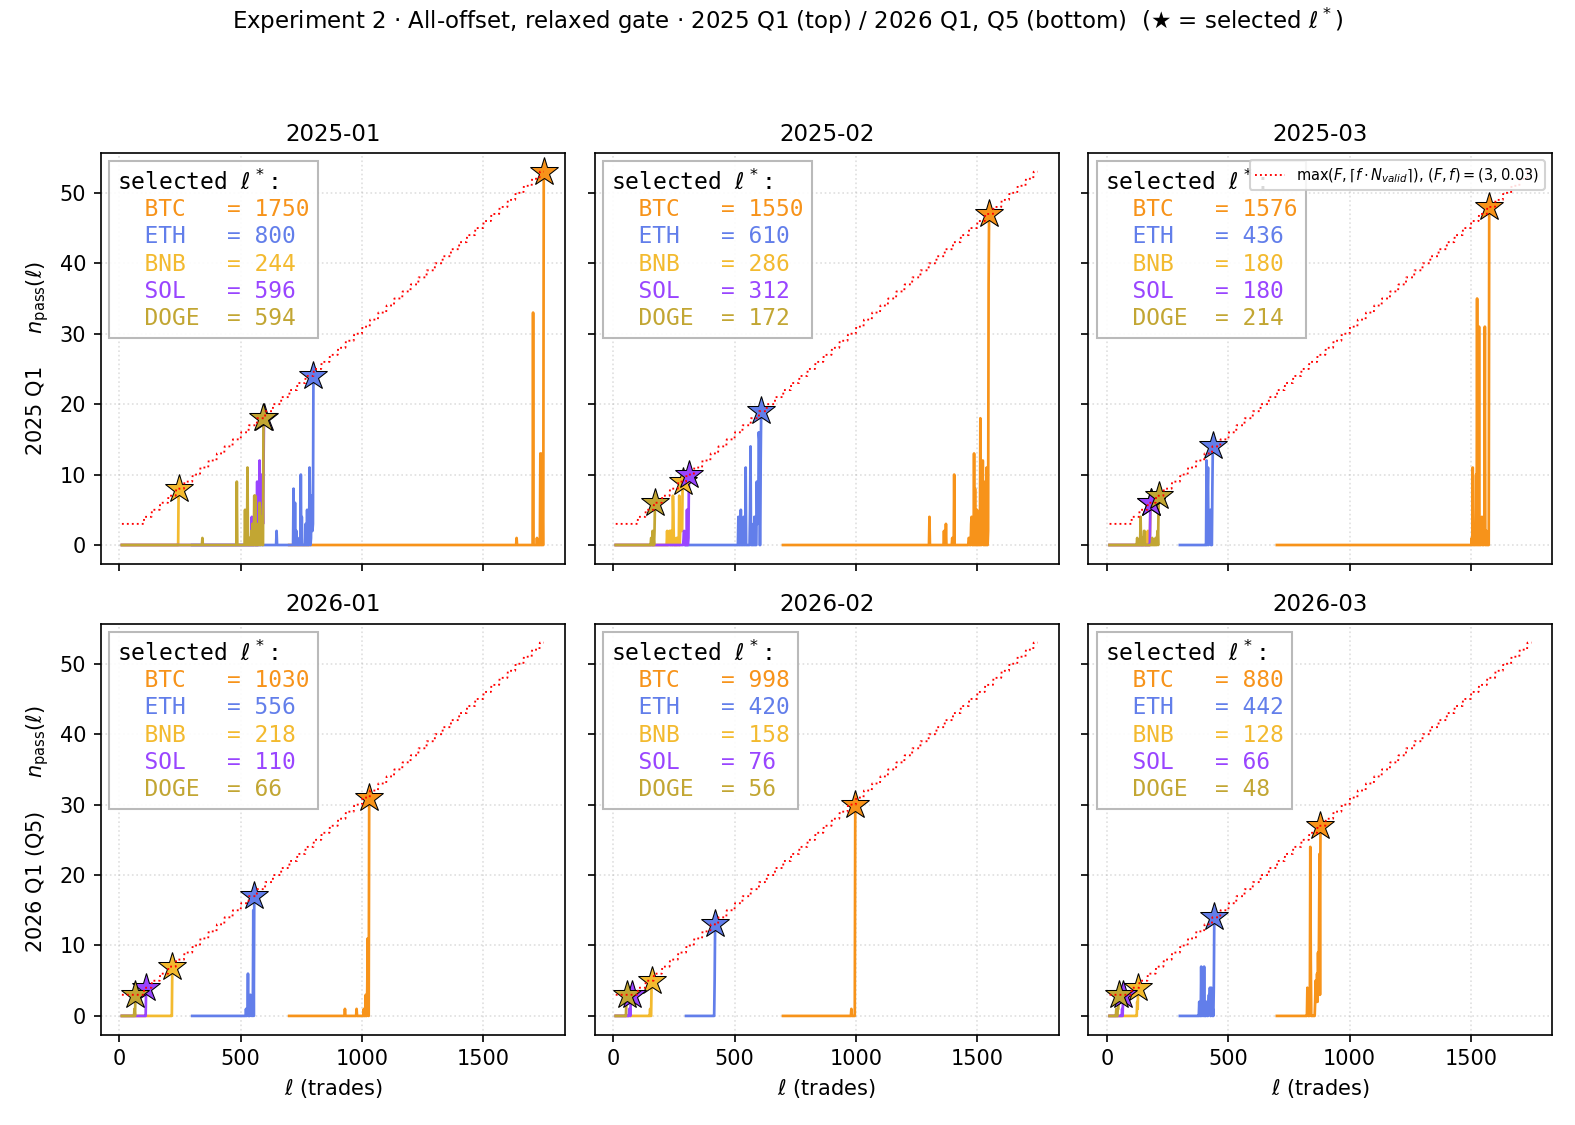
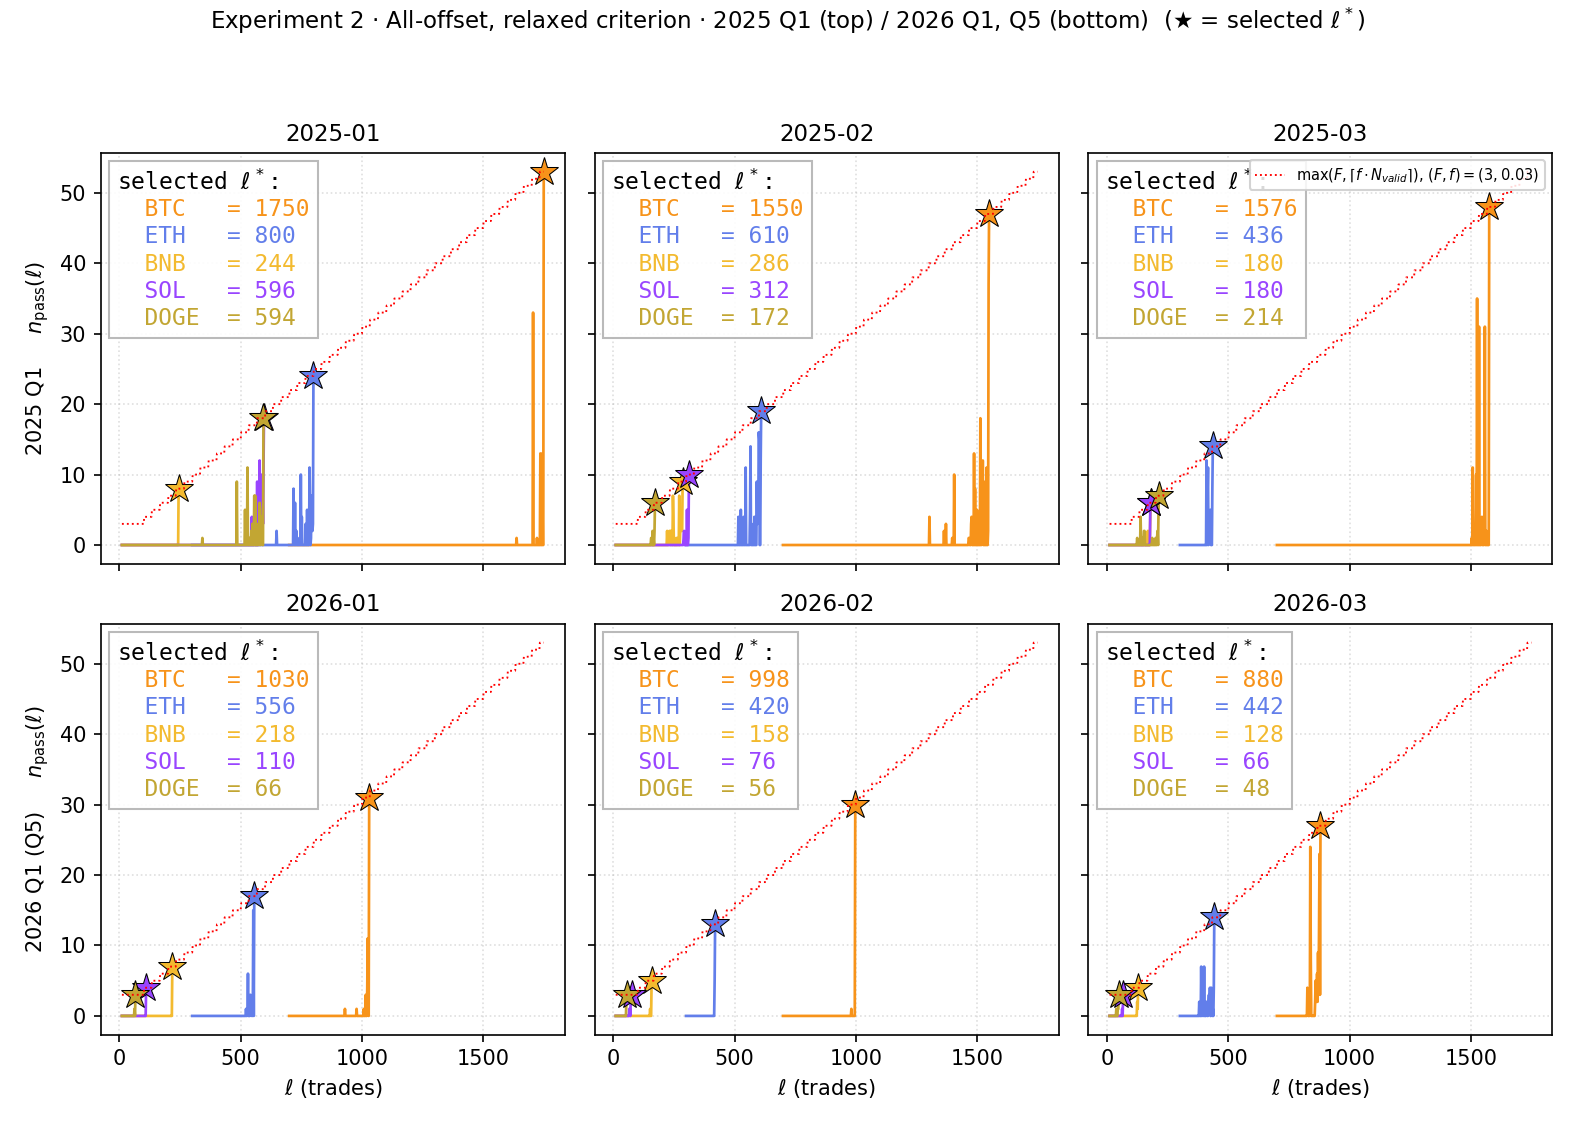
docs: unify terminology

Changed region(s): [[0.1244, 0.0, 0.8711, 0.0311]]

diff --git a/scripts/plot_exp3.py b/scripts/plot_exp3.py
@@ -3,7 +3,7 @@ from __future__ import annotations
 """
 Plot Experiment 3 figures (per plan §1.6).
 
-Path layout (per-gate subdir under data/processed/experiment3/):
+Path layout (per-criterion subdir under data/processed/experiment3/):
 
     experiment3/{gate}-gate/
         per_cell_pvalues.csv     <- read
@@ -60,6 +60,14 @@ ASSET_SHORT = {
     "BTCUSDT": "BTC", "ETHUSDT": "ETH", "BNBUSDT": "BNB",
     "SOLUSDT": "SOL", "DOGEUSDT": "DOGE",
 }
+
+
+def _criterion_label(gate: str) -> str:
+    return {
+        "base": "base criterion",
+        "runs": "+Runs criterion",
+        "apen": "+Runs + ApEn criterion",
+    }.get(gate, f"{gate} criterion")
 
 
 def _paths_for_gate(gate: str) -> tuple[Path, Path, Path, Path]:
@@ -122,8 +130,9 @@ def plot_heatmap(summary: pd.DataFrame, out_path: Path, gate: str) -> None:
     ax.set_yticklabels(ALL_SUB_TESTS)
     ax.set_xlabel("asset")
     ax.set_ylabel("sub-test")
+    criterion_label = _criterion_label(gate)
     ax.set_title(
-        f"Experiment 3 — per-asset × sub-test pass rate (GATE={gate!r})\n"
+        f"Experiment 3 — per-asset × sub-test pass rate ({criterion_label})\n"
         f"cell-level verdict: pass_rate ≥ 0.80 at α = {ALPHA};  "
         f"annotation: X / Y where Y = sanity-admissible months",
         fontsize=10,
@@ -151,7 +160,7 @@ def plot_length_vs_pvalue(pvalues: pd.DataFrame, out_path: Path, gate: str) -> N
       y = median -log10(p_value) across sanity-valid offsets only
 
     Cells with zero sanity-valid offsets (e.g. LongestRun on 5K-bracket cells,
-    or ETH 2025-05 on the base gate where ℓ\* falls under 5K) contribute no
+    or ETH 2025-05 on the base criterion where ℓ\* falls under 5K) contribute no
     point — they are documented as INVALID in the per_cell_verdict CSV but
     not on this figure.
 
@@ -167,6 +176,7 @@ def plot_length_vs_pvalue(pvalues: pd.DataFrame, out_path: Path, gate: str) -> N
     grid is too coarse and should be revisited in Future Work (§5 #5/#6
     decision says: not in this thesis).
     """
+    criterion_label = _criterion_label(gate)
     # -log10(p_value) per offset, clipped to avoid -inf
     pvalues = pvalues.copy()
     pvalues["neg_log_p"] = -np.log10(np.clip(pvalues["p_value"].to_numpy(), 1e-10, 1.0))
@@ -239,7 +249,7 @@ def plot_length_vs_pvalue(pvalues: pd.DataFrame, out_path: Path, gate: str) -> N
     n_cells = per_cell.groupby("sub_test").size().median()
     fig.suptitle(
         f"Experiment 3 — per-cell median (bit length, $-\\log_{{10}}(p)$) "
-        f"by sub-test (GATE={gate!r})\n"
+        f"by sub-test ({criterion_label})\n"
         f"each point = one (asset, month) cell; ~{int(n_cells)} cells per panel; "
         f"aggregation over sanity-valid offsets only",
         fontsize=11,
@@ -281,7 +291,7 @@ def main() -> None:
     if not per_cell_path.exists():
         raise FileNotFoundError(
             f"Missing {per_cell_path}; "
-            f"run `python scripts/runner_exp3_battery.py` (with GATE={gate!r}) first."
+            f"run `python scripts/runner_exp3_battery.py` with criterion={gate!r} first."
         )
 
     summary = pd.read_csv(per_asset_path)

diff --git a/scripts/plot_exp2_thesis_figs.py b/scripts/plot_exp2_thesis_figs.py
@@ -10,7 +10,7 @@ et al. (2025) [paper 7], each figure is a "small-multiples" grid:
 
 Each cell is an independent panel — no asset overlay. Within a single cell,
 the two test statistics (D adaptive k, Monobit) are drawn with column-specific
-colours. The relaxed-gate figure shows a single joint statistic (n_pass) per
+    colours. The relaxed-criterion figure shows a single joint statistic (n_pass) per
 cell instead.
 
 Figures 4.2, 4.3, and 4.5 produce two figures — one per quarter — for the
@@ -50,7 +50,7 @@ import matplotlib.pyplot as plt
 from matplotlib.artist import Artist
 from matplotlib.offsetbox import AnchoredOffsetbox, VPacker, TextArea
 
-from src.utils import ASSET_COLORS  # kept for Fig 4.4 (single-test relaxed gate)
+from src.utils import ASSET_COLORS  # kept for Fig 4.4 (single-test relaxed criterion)
 
 # (D-colour, Monobit-colour) pairs per column for Fig 4.2 / 4.3 / 4.5.
 # Each month column uses its own contrasting pair; both lines are solid.
@@ -249,13 +249,13 @@ def plot_fig_4_2(
         axes[0, col].legend(loc="upper right", fontsize=7, framealpha=0.85)
 
     fig.suptitle(
-        f"Experiment 2 · Single-offset · {quarter_label}"
-        "  (rows = assets; $D$ and Monobit solid, colour pair per column; "
+        f"Experiment 2 · Single-offset · {quarter_label}\n"
+        "(rows = assets; $D$ and Monobit solid, colour pair per column; "
         "red dotted = $-\\log_{10}\\alpha$)",
         fontsize=11,
         y=0.995,
     )
-    fig.tight_layout(rect=(0, 0, 1, 0.97))
+    fig.tight_layout(rect=(0, 0, 1, 0.955))
     output_path.parent.mkdir(parents=True, exist_ok=True)
     fig.savefig(output_path, dpi=150)
     plt.close(fig)
@@ -306,13 +306,13 @@ def plot_pass_rate_figure(
         axes[0, col].legend(loc="lower right", fontsize=7, framealpha=0.85)
 
     fig.suptitle(
-        f"{fig_title} · {quarter_label}"
-        "  (rows = assets; $D$ and Monobit solid, colour pair per column; "
+        f"{fig_title} · {quarter_label}\n"
+        "(rows = assets; $D$ and Monobit solid, colour pair per column; "
         "red dotted = 0.80 threshold)",
         fontsize=11,
         y=0.995,
     )
-    fig.tight_layout(rect=(0, 0, 1, 0.97))
+    fig.tight_layout(rect=(0, 0, 1, 1))
     output_path.parent.mkdir(parents=True, exist_ok=True)
     fig.savefig(output_path, dpi=150)
     plt.close(fig)
@@ -492,7 +492,7 @@ def plot_fig_4_4_combined(
         )
 
     fig.suptitle(
-        "Experiment 2 · All-offset, relaxed gate · "
+        "Experiment 2 · All-offset, relaxed criterion · "
         "2025 Q1 (top) / 2026 Q1, Q5 (bottom)"
         "  (★ = selected $\\ell^*$)",
         fontsize=11,
@@ -553,7 +553,7 @@ def main() -> None:
             quarter_label=label,
             output_path=args.output_dir
             / f"exp2_fig_4_3{panel}_all_offset_strict_{qsuffix}.png",
-            fig_title="Experiment 2 · All-offset, strict gate",
+            fig_title="Experiment 2 · All-offset, strict criterion",
             xlabel=r"$\ell$ (trades)",
         )
 

diff --git a/scripts/plot_exp4_validation.py b/scripts/plot_exp4_validation.py
@@ -7,13 +7,13 @@ Produces two thesis-ready figures from the validation outputs:
     4x1 panel of cell-level verdict matrices, one panel per n.
     Each panel is 6 validation months (rows) x 12 sub-tests (cols),
     colour-coded PASS (green) / FAIL (red) / INVALID (grey).
-    Panel title carries n + subset + ell* + witness offset.
+    Panel title carries n + subset + ell* + selected output offset.
 
   Figure 2 — exp4_validation_tradeoff.png
     3x1 panel of n-axis trade-offs:
       (a) bits/month — calibration estimate vs validation median
       (b) ell*_n      — exposes the odd/even-n effect
-      (c) fused_p1 median — confirms the moment-cancellation result
+      (c) combined p(1) median — confirms the moment-cancellation result
                             (odd n at 0.5, even n drifts)
 
 Reads:
@@ -177,7 +177,7 @@ def _plot_verdict_matrices(validation_root: Path, output_path: Path) -> None:
         ax.set_title(
             f"n={n}: {_short_subset(pick['subset'])}  "
             f"ell*={pick['ell_star_n']}  "
-            f"witness={pick['witness_offset']}",
+            f"selected output offset={pick['witness_offset']}",
             fontsize=10,
         )
         # Optionally annotate FAIL cells with pass_rate from the CSV
@@ -356,7 +356,7 @@ def _plot_tradeoff(
             ax.axvspan(row["n"] - 0.4, row["n"] + 0.4, alpha=0.08, color="#2ca02c")
     ax.set_ylim(0, max(df["ell_star_n"]) * 1.3 + 1)
 
-    # ---- Panel (c): fused_p1 vs n ----
+    # ---- Panel (c): combined p(1) vs n ----
     ax = axes[2]
     ax.errorbar(
         df["n"],
@@ -370,12 +370,12 @@ def _plot_tradeoff(
         capsize=4,
         linewidth=2,
         color="#3182bd",
-        label="fused p(1) median [min, max]",
+        label="combined p(1) median [min, max]",
     )
     ax.axhline(0.5, linestyle="--", color="gray", linewidth=1, label="0.5 (uniform)")
     ax.set_xticks(df["n"])
     ax.set_xticklabels([f"n={n}" for n in df["n"]], fontsize=8)
-    ax.set_ylabel("fused stream p(1)")
+    ax.set_ylabel("combined stream p(1)")
     ax.set_title("(c) marginal bias (moment-cancellation)")
     ax.legend(fontsize=8, loc="lower right")
     ax.grid(linestyle=":", alpha=0.5)
@@ -385,7 +385,7 @@ def _plot_tradeoff(
     ax.set_ylim(0.20, 0.55)
 
     fig.suptitle(
-        "Experiment 4 validation — trade-offs across fusion size",
+        "Experiment 4 validation — trade-offs across combination size",
         fontsize=12,
     )
     output_path.parent.mkdir(parents=True, exist_ok=True)

diff --git a/README.md b/README.md
@@ -94,9 +94,24 @@ Key source modules:
 | `src/testu01_alphabit.py` | Python wrapper for the TestU01 Alphabit driver |
 | `src/battery.py` | shared 29-sub-test battery orchestration |
 | `src/fusion.py` | multi-asset 1-second sign-bit XOR combination |
-| `src/calibration.py` | Exp 4 subset search, `ell*` selection, witness offset selection |
+| `src/calibration.py` | Exp 4 subset search, `ell*` selection, selected output offset selection |
 | `src/min_entropy.py` | MCV and Markov min-entropy estimators |
 | `src/prototype.py` | HKDF-SHA256 password prototype and baselines |
+
+## Terminology Note
+
+The thesis prose uses the final terminology agreed for the manuscript:
+
+| Thesis term | Older code/output term | Meaning |
+|---|---|---|
+| `criterion` | `gate` | A pass/fail selection rule, such as the strict, relaxed, base, or +Runs criterion. |
+| `selected output offset` | `witness offset` | The fixed offset chosen during calibration to define the output stream used for throughput and prototype input. |
+| `combined stream` | `fused_stream.bin`, `fused_p1`, `fusion_n` | The multi-asset XOR output stream. |
+
+Some code, command-line options, JSON/CSV columns, and historical paths still use
+the older names (`gate`, `witness`, `fused`). They are kept for compatibility with
+existing processed outputs. In the thesis text and figures, these correspond to
+`criterion`, `selected output offset`, and `combined stream`.
 
 ## Reproducing the Pipeline
 
@@ -143,25 +158,25 @@ data/processed/experiment1/
 
 Experiment 2 compares transaction-time aggregation and 1-second-bar
 physical-time aggregation. It also compares single-offset, strict all-offset,
-relaxed all-offset, and 1-second-bar gates.
+relaxed all-offset, and 1-second-bar criteria.
 
 ```bash
 # Single-offset diagnostic
 python scripts/runner_exp2_single_offset.py
 python scripts/plot_exp2_single_offset.py --summary-dir <summary-dir>
 
-# Strict all-offset gate
+# Strict all-offset criterion
 python scripts/runner_exp2_all_offset.py
 python scripts/plot_exp2_all_offset_optimized.py --summary-dir <summary-dir>
 
-# Relaxed all-offset gate
+# Relaxed all-offset criterion
 python scripts/runner_exp2_all_offset_relaxed.py
 
-# 1-second-bar all-offset gate
+# 1-second-bar all-offset criterion
 python scripts/runner_exp2_all_offset_1sbars.py
 python scripts/plot_exp2_all_offset_1sbars.py --summary-dir <summary-dir>
 
-# Select ell* under base / +Runs / +Runs+ApEn gates
+# Select ell* under base / +Runs / +Runs+ApEn criteria
 python scripts/select_ell_exp2_1sbars.py --summary-dir <summary-dir>
 ```
 
@@ -222,7 +237,9 @@ data/processed/experiment3/
         └── length_vs_pvalue.png
 ```
 
-The default `GATES` setting in `runner_exp3_battery.py` is `["base", "runs"]`.
+The default `GATES` setting in `runner_exp3_battery.py` is `["base", "runs"]`;
+in thesis terminology these are the base and +Runs criteria. The
+`{base-gate,runs-gate}` directory names are historical output paths.
 
 ### 4. Experiment 4: Multi-Asset XOR Combination
 
